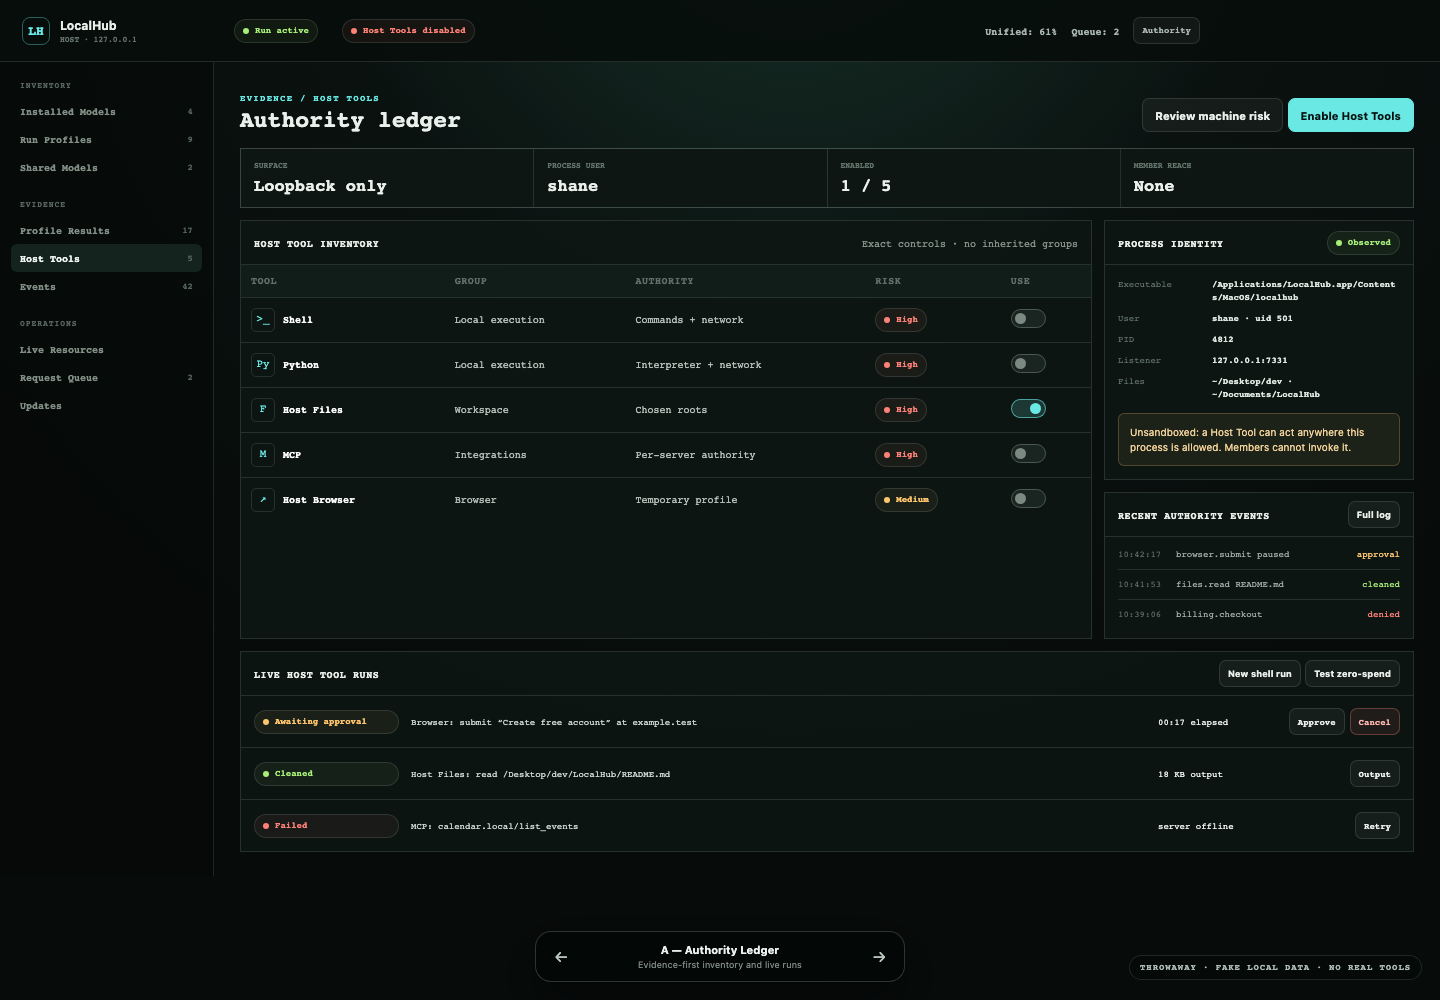
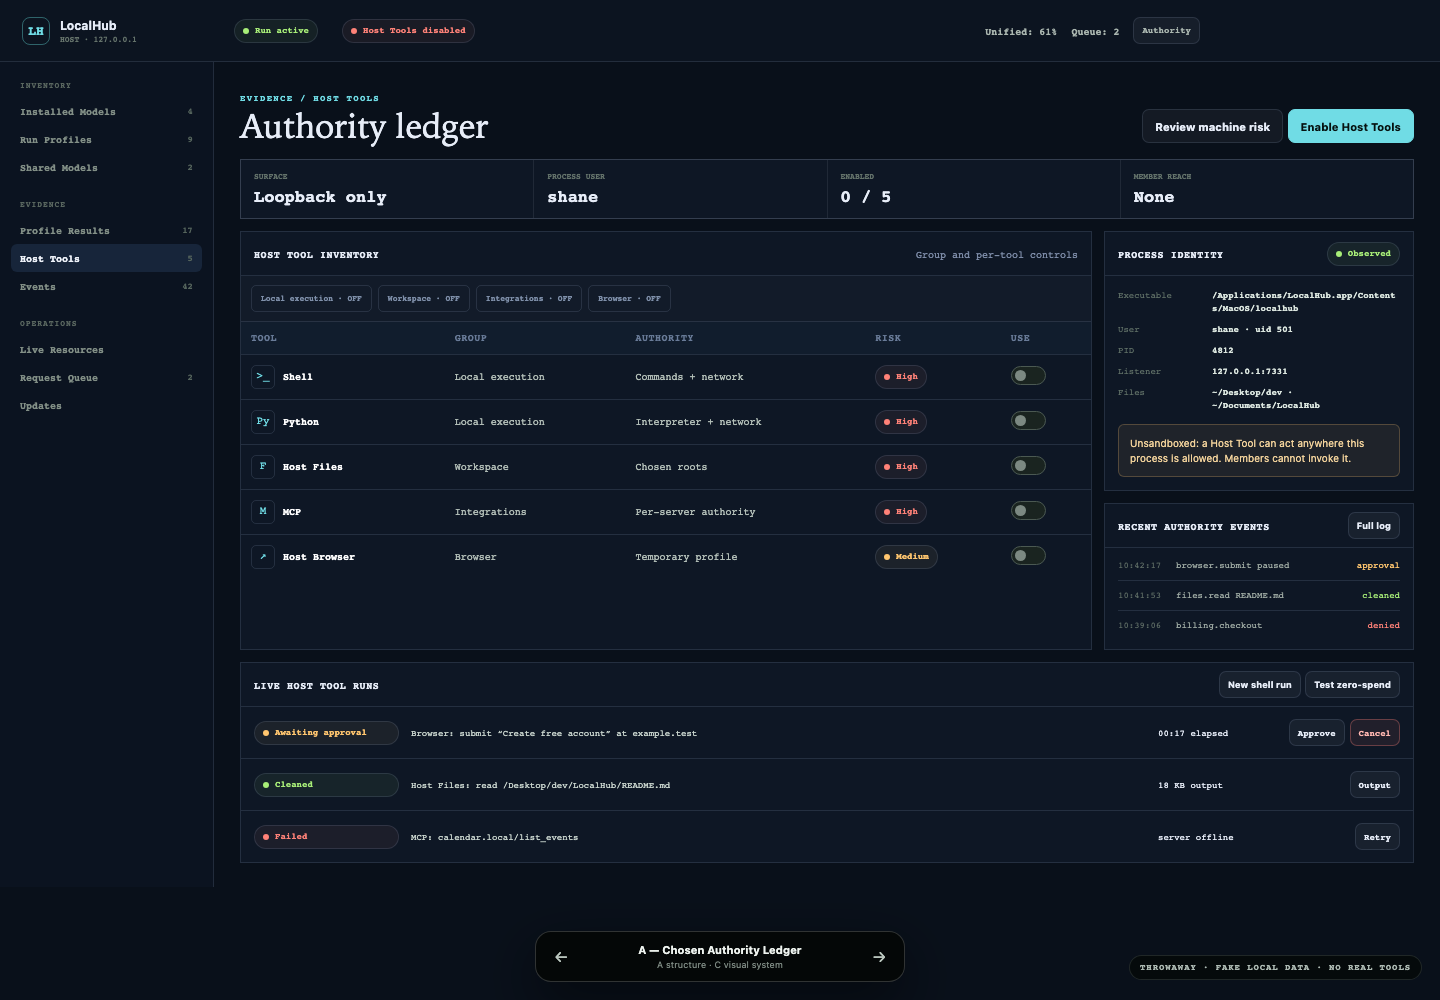
prototype: choose Authority Ledger visual direction

diff --git a/prototypes/host-tool-workspace/index.html b/prototypes/host-tool-workspace/index.html
@@ -66,34 +66,38 @@
       .run-summary { margin-left: auto; display: flex; align-items: center; gap: 14px; color: #aab6af; font: 650 10px/1 var(--mono); }
 
       /* Variant A: extend the accepted Evidence Ledger with a dense authority ledger. */
-      .a-shell { min-height: 100vh; padding-bottom: 94px; background: radial-gradient(circle at 55% -15%, #19332b 0, #0a1210 34%, #070b0a 70%); }
+      .a-shell { min-height: 100vh; padding-bottom: 94px; background: #09101a; color: #e7edf8; --line: rgba(165,186,221,.15); --muted: #7f8eaa; --cyan: #70dce5; --green: #a8ee78; }
+      .a-shell .topbar { background: #0c1420; }
       .a-layout { display: grid; grid-template-columns: 214px minmax(690px, 1fr); }
-      .a-nav { padding: 18px 11px; border-right: 1px solid var(--line); background: rgba(5,9,8,.55); }
+      .a-nav { padding: 18px 11px; border-right: 1px solid var(--line); background: #0b1320; }
       .nav-label { margin: 20px 9px 7px; color: #59665f; font: 750 8px/1 var(--mono); text-transform: uppercase; letter-spacing: .12em; }
       .nav-label:first-child { margin-top: 2px; }
       .nav-item { width: 100%; display: flex; justify-content: space-between; align-items: center; padding: 9px; border: 0; border-radius: 6px; background: transparent; color: #839087; text-align: left; font: 650 10px/1 var(--mono); }
-      .nav-item.active { background: #14231e; color: #f0f6f2; }
+      .nav-item.active { background: #17253a; color: #f0f4fb; }
       .nav-item b { color: #56655d; font-size: 9px; }
       .a-main { min-width: 0; padding: 24px 26px; }
       .a-head { display: flex; align-items: end; justify-content: space-between; gap: 20px; margin-bottom: 16px; }
-      .a-head h1 { margin: 5px 0 0; font: 700 23px/1 var(--mono); }
+      .a-head h1 { margin: 5px 0 0; font: 400 34px/1 var(--serif); }
       .a-kpis { display: grid; grid-template-columns: repeat(4, 1fr); gap: 1px; margin-bottom: 12px; border: 1px solid var(--line); background: var(--line); }
-      .a-kpi { padding: 13px; background: #0d1613; }
+      .a-kpi { padding: 13px; background: #0e1725; }
       .a-kpi span { display: block; color: #64736b; font: 750 8px/1 var(--mono); text-transform: uppercase; }
       .a-kpi strong { display: block; margin-top: 7px; font: 750 17px/1 var(--mono); }
       .a-grid { display: grid; grid-template-columns: minmax(580px, 1fr) 310px; gap: 12px; }
-      .ledger { border: 1px solid var(--line); background: rgba(13,22,19,.9); overflow: hidden; }
+      .ledger { border: 1px solid var(--line); background: #0e1725; overflow: hidden; }
       .panel-head { min-height: 44px; display: flex; align-items: center; justify-content: space-between; gap: 10px; padding: 0 13px; border-bottom: 1px solid var(--line); }
       .panel-head h2 { margin: 0; font: 750 10px/1 var(--mono); text-transform: uppercase; letter-spacing: .06em; }
+      .group-strip { display: flex; flex-wrap: wrap; gap: 6px; padding: 9px 10px; border-bottom: 1px solid var(--line); background: rgba(255,255,255,.018); }
+      .group-control { min-height: 27px; padding: 0 9px; border: 1px solid var(--line); border-radius: 5px; background: transparent; color: #7f90aa; cursor: pointer; font: 700 8px/1 var(--mono); }
+      .group-control.on { border-color: rgba(112,220,229,.45); background: rgba(112,220,229,.1); color: var(--cyan); }
       table { width: 100%; border-collapse: collapse; font: 10px/1.35 var(--mono); }
-      th { padding: 9px 10px; background: #111d19; color: #617169; text-align: left; text-transform: uppercase; letter-spacing: .05em; }
+      th { padding: 9px 10px; background: #111d2d; color: #697b98; text-align: left; text-transform: uppercase; letter-spacing: .05em; }
       td { padding: 10px; border-top: 1px solid var(--line); color: #b4c0b9; vertical-align: middle; }
-      tr.selected td { background: rgba(105,232,228,.045); }
+      tr.selected td { background: rgba(112,220,229,.045); }
       td strong { color: white; }
       .tool-name { display: flex; align-items: center; gap: 8px; }
       .tool-icon { width: 24px; height: 24px; display: grid; place-items: center; border: 1px solid var(--line); border-radius: 5px; color: var(--cyan); font-size: 11px; }
       .a-stack { display: flex; flex-direction: column; gap: 12px; }
-      .a-panel { border: 1px solid var(--line); background: rgba(13,22,19,.9); }
+      .a-panel { border: 1px solid var(--line); background: #0e1725; }
       .a-body { padding: 13px; }
       .identity { display: grid; grid-template-columns: 86px 1fr; gap: 8px; font: 9px/1.45 var(--mono); }
       .identity span { color: #607067; }
@@ -107,7 +111,7 @@
       .event .good { color: var(--green); }
       .event .wait { color: var(--amber); }
       .event .fail { color: var(--red); }
-      .runner { margin-top: 12px; border: 1px solid var(--line); background: rgba(13,22,19,.92); }
+      .runner { margin-top: 12px; border: 1px solid var(--line); background: #0e1725; }
       .run-row { display: grid; grid-template-columns: 145px 1fr 100px 130px; align-items: center; gap: 12px; padding: 12px 13px; border-top: 1px solid var(--line); font: 9px/1.35 var(--mono); }
       .run-row:first-of-type { border-top: 0; }
       .run-input { color: #c9d5ce; overflow: hidden; text-overflow: ellipsis; white-space: nowrap; }
@@ -201,11 +205,12 @@
       .toast.show { opacity: 1; transform: translateY(0); }
       .modal-backdrop { position: fixed; z-index: 300; inset: 0; display: none; place-items: center; padding: 22px; background: rgba(2,5,4,.76); backdrop-filter: blur(8px); }
       .modal-backdrop.open { display: grid; }
-      .modal { width: min(620px, 100%); border: 1px solid rgba(255,198,111,.32); border-radius: 12px; background: #101915; box-shadow: 0 24px 80px rgba(0,0,0,.58); }
+      .modal { width: min(620px, 100%); border: 1px solid rgba(255,198,111,.32); border-radius: 12px; background: #0e1725; color: #e7edf8; box-shadow: 0 24px 80px rgba(0,0,0,.58); }
       .modal-head { display: flex; justify-content: space-between; gap: 14px; padding: 18px; border-bottom: 1px solid var(--line); }
       .modal-head h2 { margin: 5px 0 0; font: 400 27px/1 var(--serif); }
       .modal-body { padding: 18px; }
       .modal-body p { color: #aab6af; font-size: 11px; line-height: 1.55; }
+      .modal .b-check { background: #172238; color: #cbd6e7; }
       .modal-list { margin: 15px 0; padding: 0; list-style: none; }
       .modal-list li { padding: 9px 0; border-top: 1px solid var(--line); color: #d8e1db; font: 10px/1.4 var(--mono); }
       .modal-foot { display: flex; justify-content: end; gap: 8px; padding: 15px 18px; border-top: 1px solid var(--line); }
@@ -242,17 +247,18 @@
     <div class="modal-backdrop" id="risk-modal" role="dialog" aria-modal="true" aria-labelledby="risk-title">
       <section class="modal">
         <header class="modal-head">
-          <div><span class="eyebrow">Machine-level authority</span><h2 id="risk-title">Host Tools are not sandboxed.</h2></div>
+          <div><span class="eyebrow">Machine-level authority</span><h2 id="risk-title">Nothing here is a sandbox.</h2></div>
           <button class="btn ghost small" data-action="close-modal">Close</button>
         </header>
         <div class="modal-body">
-          <p>Shell, Python, Host files, MCP, and Host browser actions run only on this Mac, through loopback, with the same operating-system and network permissions as the LocalHub process. Model output can be wrong or manipulated by untrusted content.</p>
+          <p>Host Tools are intentionally powerful and intentionally local. Shell, Python, Host files, MCP, and Host browser actions use the LocalHub process’s macOS file and network authority.</p>
           <ul class="modal-list">
-            <li>Process: localhub · user shane · PID 4812 · 127.0.0.1 only</li>
-            <li>Reach: files and network allowed by macOS for this process</li>
-            <li>Members: never receive these Host Tools through Browser Chat</li>
-            <li>Spend: purchase, paid API, subscription, donation, and trial-to-paid actions are denied with no override</li>
+            <li>The model can propose dangerous actions, including changing or deleting data.</li>
+            <li>Untrusted browser, file, and MCP content can manipulate a model.</li>
+            <li>Members never receive Host Tools through Browser Chat.</li>
+            <li>Money actions are denied permanently; approval cannot override the zero-spend boundary.</li>
           </ul>
+          <div class="code">localhub · user shane · PID 4812 · 127.0.0.1:7331 only</div>
           <label class="b-check"><input id="risk-ack" type="checkbox" /> I understand Host Tools may change or delete data on this Mac and can reach places this LocalHub process can reach.</label>
         </div>
         <footer class="modal-foot">
@@ -263,13 +269,13 @@
     </div>
     <script>
       const variants = {
-        A: { name: "Authority Ledger", note: "Evidence-first inventory and live runs" },
+        A: { name: "Chosen Authority Ledger", note: "A structure · C visual system" },
         B: { name: "Guided Safety Gate", note: "Enablement before operations" },
         C: { name: "Live Tool Desk", note: "Task-first workspace with authority rail" },
       };
       const state = {
         enabled: false,
-        tools: { shell: false, python: false, files: true, mcp: false, browser: false },
+        tools: { shell: false, python: false, files: false, mcp: false, browser: false },
         runState: "approval",
         output: "$ waiting for Host approval before browser submits form…",
       };
@@ -292,6 +298,11 @@
         return `<tr data-tool-row="${key}"><td><div class="tool-name"><span class="tool-icon">${glyph}</span><strong>${title}</strong></div></td><td>${group}</td><td>${reach}</td><td><span class="pill ${risk === "High" ? "bad" : "warn"}">${risk}</span></td><td><button class="switch ${state.tools[key] ? "on" : ""}" aria-label="Toggle ${title}" data-action="toggle-tool" data-tool="${key}"></button></td></tr>`;
       }
 
+      function groupControl(title, keys) {
+        const on = keys.every((key) => state.tools[key]);
+        return `<button class="group-control ${on ? "on" : ""}" data-action="toggle-group" data-tools="${keys.join(",")}">${title} · ${on ? "ON" : "OFF"}</button>`;
+      }
+
       function variantA() {
         return `<section class="a-shell">${topbar()}<div class="a-layout">
           <aside class="a-nav">
@@ -303,7 +314,7 @@
             <div class="a-head"><div><span class="eyebrow">Evidence / Host Tools</span><h1>Authority ledger</h1></div><div><button class="btn" data-action="open-risk">Review machine risk</button> <button class="btn primary" data-action="enable">${state.enabled ? "Enabled" : "Enable Host Tools"}</button></div></div>
             <div class="a-kpis"><div class="a-kpi"><span>Surface</span><strong>Loopback only</strong></div><div class="a-kpi"><span>Process user</span><strong>shane</strong></div><div class="a-kpi"><span>Enabled</span><strong>${Object.values(state.tools).filter(Boolean).length} / 5</strong></div><div class="a-kpi"><span>Member reach</span><strong>None</strong></div></div>
             <div class="a-grid">
-              <section class="ledger"><header class="panel-head"><h2>Host Tool inventory</h2><span class="tiny muted mono">Exact controls · no inherited groups</span></header><table><thead><tr><th>Tool</th><th>Group</th><th>Authority</th><th>Risk</th><th>Use</th></tr></thead><tbody>
+              <section class="ledger"><header class="panel-head"><h2>Host Tool inventory</h2><span class="tiny muted mono">Group and per-tool controls</span></header><div class="group-strip">${groupControl("Local execution", ["shell", "python"])}${groupControl("Workspace", ["files"])}${groupControl("Integrations", ["mcp"])}${groupControl("Browser", ["browser"])}</div><table><thead><tr><th>Tool</th><th>Group</th><th>Authority</th><th>Risk</th><th>Use</th></tr></thead><tbody>
                 ${toolRow("shell", ">_", "Shell", "Local execution", "Commands + network", "High")}
                 ${toolRow("python", "Py", "Python", "Local execution", "Interpreter + network", "High")}
                 ${toolRow("files", "F", "Host Files", "Workspace", "Chosen roots", "High")}
@@ -405,6 +416,13 @@
         if (action === "toggle-tool") {
           if (!state.enabled) return modal.classList.add("open");
           const key = button.dataset.tool; state.tools[key] = !state.tools[key]; render(); showToast(`${key} ${state.tools[key] ? "enabled" : "disabled"}. Exact control recorded.`);
+        }
+        if (action === "toggle-group") {
+          if (!state.enabled) return modal.classList.add("open");
+          const keys = button.dataset.tools.split(",");
+          const enable = !keys.every((key) => state.tools[key]);
+          keys.forEach((key) => { state.tools[key] = enable; });
+          render(); showToast(`Tool Group ${enable ? "enabled" : "disabled"}. Per-tool controls remain available.`);
         }
         if (action === "choose") showToast(`${button.dataset.choice} selected. Inputs stay local and visible.`);
         if (action === "simulate-run") { state.runState = "running"; state.output = "$ rg -n 'Host Tool' CONTEXT.md docs/adr\nCONTEXT.md:41:**Host Tool**\n… 17 more matches\n\n[complete · exit 0 · cleanup verified]"; render(); showToast("Fake run completed. No process was started."); }
